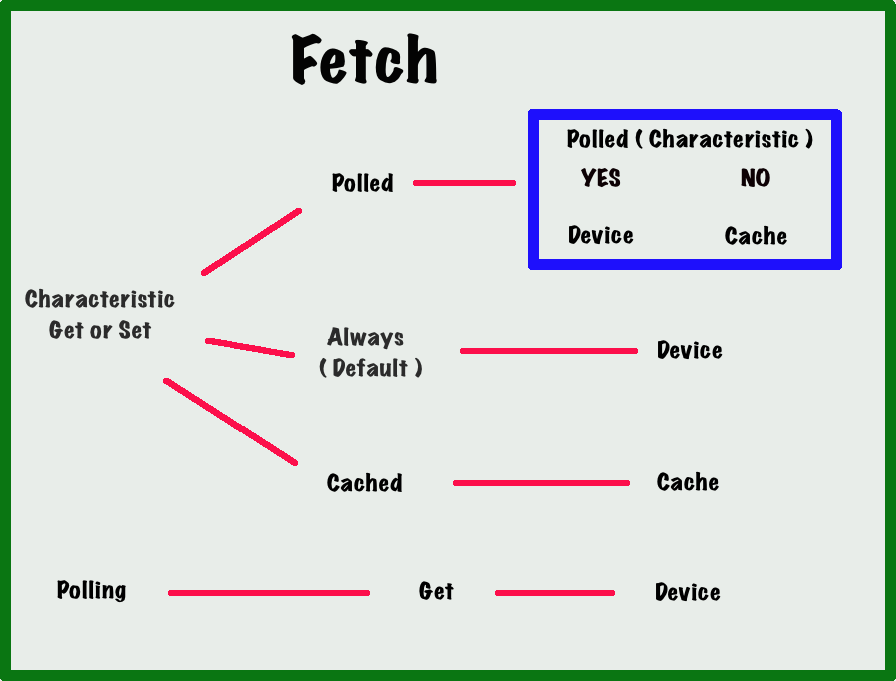
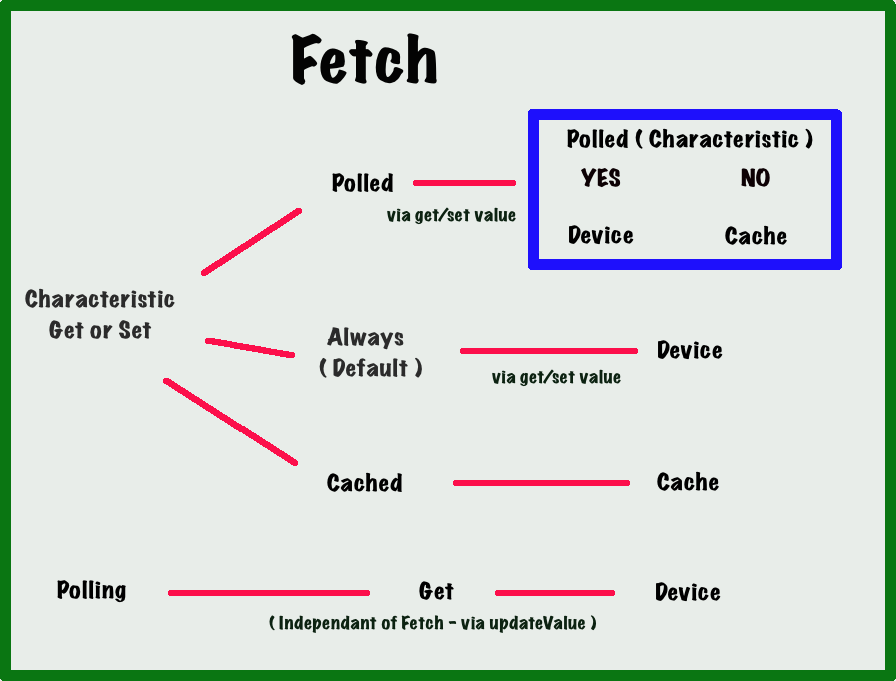
chore: packaging for v3.3.0

Changed region(s): [[0.2812, 0.8943, 0.6562, 0.9251], [0.5625, 0.5242, 0.6875, 0.5859], [0.4375, 0.3084, 0.5938, 0.3392]]

diff --git a/CHANGELOG.md b/CHANGELOG.md
@@ -1,17 +1,24 @@
 # Homebridges-cmd4 - CMD4 Plugin for Homebridge - Supports ~All Accessory Types and now all Characteristics too!!
-#### 3.2.5-beta6 (2021-03-12)
-
-##### Chores
-
-*  Missing file ([b95bb22e](https://github.com/ztalbot2000/homebridge-cmd4/commit/b95bb22e46121e36a4dc9dd741ad9a43e24491b9))
+### 3.3.0 (2021-03-13)
 
 ##### New Features
 
-*  Change to RUNNING_CHANGLOG for Homebeidge-UI bug that cannot follow inline URLs ([13e57946](https://github.com/ztalbot2000/homebridge-cmd4/commit/13e57946c187424f8bef4deb8b28860ba3276330))
+*  Now that polling uses updateValue, polling can be independent of fetch ([b3ca7f0](https://github.com/ztalbot2000/homebridge-cmd4/commit/b48d88b66ef1a715d347c6a712aee0a927f48741))
+*  Polling now calls updateValue ([9c75b069](https://github.com/ztalbot2000/homebridge-cmd4/commit/9c75b0692ea687559a112269bdfa09fef5568e2e))
+*  Double check for polling or services not being created twice ([2d856289](https://github.com/ztalbot2000/homebridge-cmd4/commit/2d85628996fc3702b5b309754a6bde25dc95f605))
+*  Change to RUNNING_CHANGELOG for Homebeidge-UI bug that cannot follow inline URLs ([13e57946](https://github.com/ztalbot2000/homebridge-cmd4/commit/13e57946c187424f8bef4deb8b28860ba3276330))
+* Stagger Polling Starts ([1e144e9c](https://github.com/ztalbot2000/homebridge-cmd4/commit/1e144e9c027f3b0dc353b0bd1c2edd2819712654))
 
 ##### Bug Fixes
 
 *  properly handle removed platform accessories from cache ([2ce2e9a3](https://github.com/ztalbot2000/homebridge-cmd4/commit/2ce2e9a31030e1f931bc28ae2c55eca59d0c8899))
 *  Globally allow statusMsg option to be set ([cc173514](https://github.com/ztalbot2000/homebridge-cmd4/commit/cc17351407005926a9c3b218f889727b1fb852ef))
+*  transposing constants to strings and add subType to clarify accessory services ([99d69cec](https://github.com/ztalbot2000/homebridge-cmd4/commit/99d69cec5eb1902f0429a6a84276571fbe6e298a))
+*  use cross spawn instead of exec ([ab51b8dd](https://github.com/ztalbot2000/homebridge-cmd4/commit/ab51b8dd9b9a543d222d22f54348b06ff901d011))
+
+
+##### Tests
+
+*  Test all constants, just in case accidentally changed ([b3ca7f07](https://github.com/ztalbot2000/homebridge-cmd4/commit/b3ca7f07a20d25750e10dee5e0b533dd6f7393fb))
 
 

diff --git a/RUNNING_CHANGELOG.md b/RUNNING_CHANGELOG.md
@@ -3,6 +3,7 @@
 ## Homebridge UI User. Do not click on any inline links. Homebridge UI does not supprt them. Bug#1098
 
 ## ChangeLog
+* <a href="#Whats-new-in-3-3-0">**Whats new in 3.3.0**</a>
 * <a href="#Whats-new-in-3-2-5-beta6">**Whats new in 3.2.5-beta6**</a>
 * <a href="#Whats-new-in-3-2-5-beta5">**Whats new in 3.2.5-beta5**</a>
 * <a href="#Whats-new-in-3-2-5-beta3">**Whats new in 3.2.5-beta3**</a>
@@ -38,6 +39,29 @@
 * <a href="#Whats-new-in-2-2">**Whats new in 2.2**</a>
 * <a href="#Whats-new-in-2-1">**Whats new in 2.1**</a>
 * <a href="#Whats-new-in-2-0">**Whats new in 2.0**</a>
+
+<a name="Whats-new-in-3-3-0">## Whats new in 3.3.0</a>
+### 3.3.0 (2021-03-13)
+
+##### Chores
+
+*  packaging for 3.2.5-beta6 ([5ef6d0e8](https://github.com/ztalbot2000/homebridge-cmd4/commit/5ef6d0e8e4d29679e1550b69489aefbdb318d163))
+*  Missing file ([b95bb22e](https://github.com/ztalbot2000/homebridge-cmd4/commit/b95bb22e46121e36a4dc9dd741ad9a43e24491b9))
+
+##### New Features
+
+*  Now that polling uses updateValue, polling can be independent of fetch ([b3ca7f0](https://github.com/ztalbot2000/homebridge-cmd4/commit/b48d88b66ef1a715d347c6a712aee0a927f48741))
+*  Change to RUNNING_CHANGLOG for Homebeidge-UI bug that cannot follow inline URLs ([13e57946](https://github.com/ztalbot2000/homebridge-cmd4/commit/13e57946c187424f8bef4deb8b28860ba3276330))
+
+##### Bug Fixes
+
+*  properly handle removed platform accessories from cache ([2ce2e9a3](https://github.com/ztalbot2000/homebridge-cmd4/commit/2ce2e9a31030e1f931bc28ae2c55eca59d0c8899))
+*  Globally allow statusMsg option to be set ([cc173514](https://github.com/ztalbot2000/homebridge-cmd4/commit/cc17351407005926a9c3b218f889727b1fb852ef))
+
+##### Tests
+
+*  Test all constants, just in case accidentally changed ([b3ca7f07](https://github.com/ztalbot2000/homebridge-cmd4/commit/b3ca7f07a20d25750e10dee5e0b533dd6f7393fb))
+
 
 <a name="Whats-new-in-3-2-5-beta6">## Whats new in 3.2.5-beta6</a>
 #### 3.2.5-beta6 (2021-03-12)
